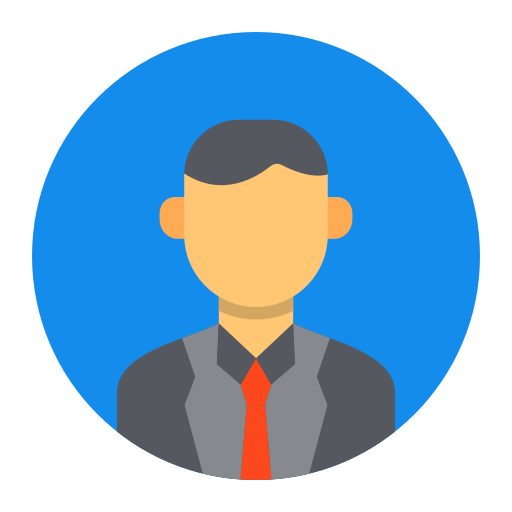
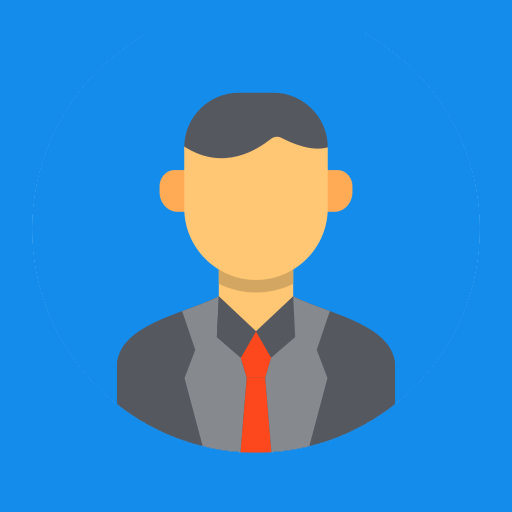
Minor fixes

diff --git a/lib/Pages/Home/home.dart b/lib/Pages/Home/home.dart
@@ -28,7 +28,7 @@ class _HomePage extends State<HomePage> {
   DateTime? _rangeStart;
   DateTime? _rangeEnd;
   late final ValueNotifier<List<Event>> _selectedEvents;
-  final double subjectGridSize = 68; //scale at 60-110, 80 looks best
+  final double subjectGridSize = 80; //scale at 60-110, 80 looks best
 
   @override
   void initState() {
@@ -273,6 +273,62 @@ class _HomePage extends State<HomePage> {
         ),
       ],
     );
+  }
+
+  Widget _tempCreateLesson(String title, String value) {
+    return GestureDetector(
+      onTap: () {
+        Navigator.push(
+          context,
+          MaterialPageRoute(
+            builder: (context) => const CreateLessonPage(),
+          ),
+        );
+      },
+      child: Column(
+          mainAxisSize: MainAxisSize.min,
+          mainAxisAlignment: MainAxisAlignment.center,
+          crossAxisAlignment: CrossAxisAlignment.center,
+          children: [
+            SizedBox(
+              width: 100,
+              height: 22.22,
+              child: Text(
+                title,
+                textAlign: TextAlign.center,
+                style: TextStyle(
+                  color: Colors.black,
+                  fontSize: 14,
+                  fontFamily: 'Roboto',
+                  fontWeight: FontWeight.w500,
+                  height: 1.43,
+                  letterSpacing: 0.10,
+                ),
+              ),
+            ),
+            SizedBox(
+              width: 100,
+              height: 22.22,
+              child: Row(
+                mainAxisAlignment: MainAxisAlignment.center,
+                children: [
+                  Text(
+                    value,
+                    textAlign: TextAlign.center,
+                    style: TextStyle(
+                      color: Colors.black,
+                      fontSize: 22,
+                      fontFamily: 'Roboto',
+                      fontWeight: FontWeight.w400,
+                      height: 1.27,
+                    ),
+                  ),
+                ],
+              ),
+            ),
+          ],
+        ),
+      );
   }
 
   Widget _buildHDivider() {
@@ -829,76 +885,12 @@ class _HomePage extends State<HomePage> {
                 textAlign: TextAlign.center,
                 style: TextStyle(
                   color: Colors.black,
-                  fontSize: subjectSize / 5,
+                  fontSize: subjectSize / 5 - 2,
                   fontFamily: 'Roboto',
                   fontWeight: FontWeight.w500,
                   height: 1.43,
                   letterSpacing: 0.10,
                 ),
-              ),
-            ),
-          ],
-        ),
-      ),
-    );
-  }
-
-  Widget _tempCreateLesson(String title, String value) {
-    return GestureDetector(
-      onTap: () {
-        Navigator.push(
-          context,
-          MaterialPageRoute(
-            builder: (context) => const CreateLessonPage(),
-          ),
-        );
-      },
-      child: Container(
-        width: 100,
-        height: 100,
-        decoration: BoxDecoration(
-          color: Colors.transparent,
-          borderRadius: BorderRadius.circular(8),
-        ),
-        child: Column(
-          mainAxisSize: MainAxisSize.min,
-          mainAxisAlignment: MainAxisAlignment.center,
-          crossAxisAlignment: CrossAxisAlignment.center,
-          children: [
-            SizedBox(
-              width: 100,
-              height: 22.22,
-              child: Text(
-                title,
-                textAlign: TextAlign.center,
-                style: TextStyle(
-                  color: Colors.black,
-                  fontSize: 14,
-                  fontFamily: 'Roboto',
-                  fontWeight: FontWeight.w500,
-                  height: 1.43,
-                  letterSpacing: 0.10,
-                ),
-              ),
-            ),
-            SizedBox(
-              width: 100,
-              height: 22.22,
-              child: Row(
-                mainAxisAlignment: MainAxisAlignment.center,
-                children: [
-                  Text(
-                    value,
-                    textAlign: TextAlign.center,
-                    style: TextStyle(
-                      color: Colors.black,
-                      fontSize: 22,
-                      fontFamily: 'Roboto',
-                      fontWeight: FontWeight.w400,
-                      height: 1.27,
-                    ),
-                  ),
-                ],
               ),
             ),
           ],

diff --git a/lib/Pages/Profile/ProfilePage.dart b/lib/Pages/Profile/ProfilePage.dart
@@ -18,7 +18,7 @@ class ProfilePage extends StatefulWidget {
 
 class _ProfilePageState extends State<ProfilePage> {
   String _name = "Nguyễn Văn A";
-  String _class = "Chưa chọn lớp";
+  String _class = "Lớp 12";
   File? _avatarImage;
 
   @override
@@ -31,7 +31,7 @@ class _ProfilePageState extends State<ProfilePage> {
     final prefs = await SharedPreferences.getInstance();
     setState(() {
       _name = prefs.getString('userName') ?? "Nguyễn Văn A";
-      _class = prefs.getString('userClass') ?? "Chưa chọn lớp";
+      _class = prefs.getString('userClass') ?? "Lớp 12";
     });
   }
 
@@ -76,12 +76,12 @@ class _ProfilePageState extends State<ProfilePage> {
                           const Color(0xFF9575CD).withValues(alpha: 0.1),
                       backgroundImage: _avatarImage != null
                           ? FileImage(_avatarImage!) as ImageProvider
-                          : const AssetImage('assets/images/profile_icon.png'),
+                          : const AssetImage('assets/images/40x40.png'),
                       child: _avatarImage == null
-                          ? const Icon(
+                          ? Icon(
                               Icons.camera_alt,
                               size: 30,
-                              color: Color(0xFF9575CD),
+                              color: Color(0xFF9575CD).withValues(alpha: 0.8),
                             )
                           : null,
                     ),
